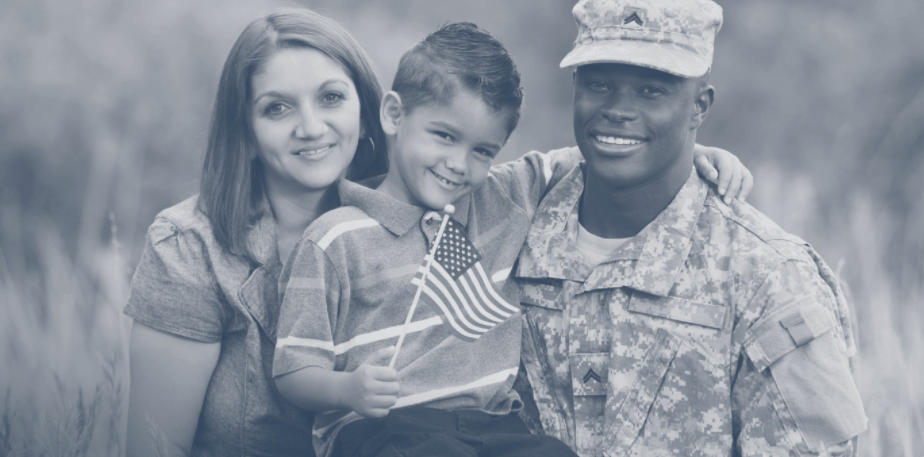
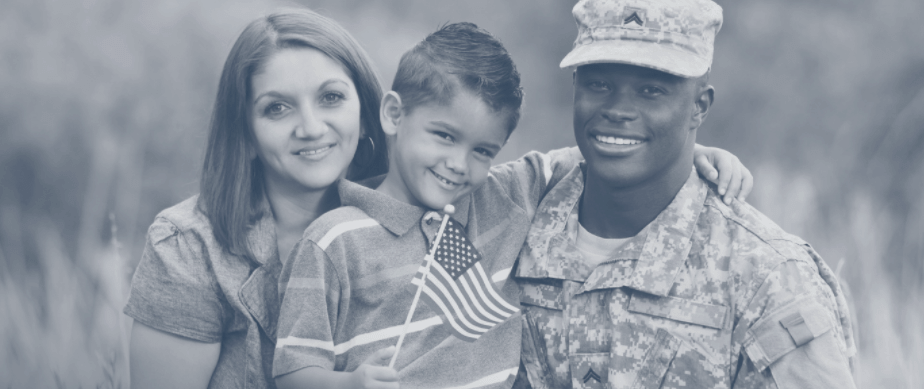
Moving some things around - Work on Responsiveness - Smaller Background Image - GA For prod.

diff --git a/src/scenes/home/families/facts/facts.js b/src/scenes/home/families/facts/facts.js
@@ -1,32 +1,32 @@
 import React, { Component } from 'react';
-import styles from './facts-styles';
+import styles from './facts.css';
 import family3 from '../../../../images/Family-3.jpg';
 
 class Facts extends Component {
   render() {
     return (
-      <div style={styles.facts} >
-        <div style={styles.factsList}>
-          <div style={styles.factsHeading} >
+      <div className={styles.facts} >
+        <div className={styles.factsList}>
+          <div className={styles.factsHeading} >
             <h5>The Facts</h5>
           </div>
           <ul>
-            <li style={styles.factItem}>
+            <li className={styles.factItem}>
               There are approximately 710,000 active duty spouses, 93% of whom are female.  An additional 500,000 spouses are married to a Reservist or National Guardsman.
             </li>
-            <li style={styles.factItem}>
+            <li className={styles.factItem}>
               84% have some college education; 25% hold an undergraduate degree; and 10% hold a postgraduate degree.
             </li>
-            <li style={styles.factItem}>
+            <li className={styles.factItem}>
               77% of spouses report that they want or need to work.  38% of military spouses are underemployed, compared to approximately 6% rate for civilian spouses.
             </li>
-            <li style={styles.factItem}>
+            <li className={styles.factItem}>
               Only 19% of military spouses have adequate full-time employment.
             </li>
           </ul>
         </div>
-        <div style={ styles.factsRight } >
-          <img style={ styles.factsImage } src={ family3 } alt="" />
+        <div className={ styles.factsRight } >
+          <img className={ styles.factsImage } src={ family3 } alt="" />
         </div>
       </div>
     );

diff --git a/src/App.js b/src/App.js
@@ -1,13 +1,25 @@
-import React, { Component, Image } from 'react';
+import React, { Component } from 'react';
 import Home from './scenes/home/home';
-import { BrowserRouter as Router, Route } from 'react-router-dom';
-
-
+import { Route, Router } from 'react-router';
+import createHistory from 'history/createBrowserHistory';
+import ReactGA from 'react-ga';
 class App extends Component {
+
+  componentDidMount() {
+    if (process.env.NODE_ENV === 'production' && process.env.GA_TRACKER_ID) {
+      ReactGA.initialize(process.env.GA_TRACKER_ID);
+      this.history.listen((location, action) => {
+        ReactGA.set({ page: location.pathname });
+        ReactGA.pageview(location.pathname);
+      });
+    }
+  }
+  history = createHistory();
+
   render() {
     return (
-      <Router>
-        <Route path="/" component={Home}/>
+      <Router history={this.history} >
+        <Route path="/" component={Home} />
       </Router>
     );
   }

diff --git a/src/scenes/home/header/header.js b/src/scenes/home/header/header.js
@@ -1,22 +1,14 @@
 import React, { Component } from 'react';
-import logo from 'images/logos/small-white-logo.png';
 import styles from './header.css';
-import { Link } from 'react-router-dom';
+import TopNav from './topNav/topNav';
+import Logo from './logo/logo';
+
 class Header extends Component {
   render() {
     return (
       <div className={ styles.header } >
-        <div className={ styles.logo } >
-          <a href="/"><img src={ logo } alt="" height="38px" /></a>
-        </div>
-        <div className={styles.nav} >
-          <Link to="about">About Us</Link>
-          <Link to="programs">Our Programs</Link>
-          <Link to="involved">Get Involved</Link>
-          <Link to="blog">Blog</Link>
-          <Link to="donate">Donate</Link>
-          <Link to="join">Join</Link>
-        </div>
+        <Logo />
+        <TopNav />
       </div>
     );
   }

diff --git a/src/scenes/home/header/header.css b/src/scenes/home/header/header.css
@@ -1,19 +1,33 @@
 
-  .header {
-    display: flex;
-    height: 38px;
-    margin: 24px 130px;
-  }
+.header {
+  display: flex;
+  height: 80px;
+  align-items: center;
+}
+.logo {
+  height:80px;
+  flex: 1 40%;
+  margin-left:80px;
+  align-items: center;
+  display:flex;
+}
+.nav {
+  display: flex;
+  justify-content: space-between;
+  flex: 1 60%;
+  margin-right:8vw;
+}
+.nav a {
+  text-decoration: none;
+  color: #F7F7F7;
+  font-size:16px;
+}
+.logo img {
+  height: 50px;
+}
+
+@media only screen and (max-device-width: 768px) {
   .logo {
-    height: 38px;
-    flex: 1 50%;
+    margin: 0;
   }
-  .nav {
-    display: flex;
-    justify-content: space-between;
-    flex: 1 50%;
-  }
-  .nav a {
-    text-decoration: none;
-    color: #F7F7F7;
-  }
+}

diff --git a/src/scenes/home/header/topNav/topNav.js b/src/scenes/home/header/topNav/topNav.js
@@ -1,0 +1,21 @@
+import React, { Component } from 'react';
+import styles from './topNav.css';
+import Nav from 'shared/components/nav/nav';
+import NavItem from 'shared/components/nav/navItem/navItem';
+
+class TopNav extends Component {
+  render() {
+    return (
+      <Nav className={styles.topNav} >
+        <NavItem to="about" text="About Us" />
+        <NavItem to="programs" text="Our Programs" />
+        <NavItem to="involved" text="Get Involved" />
+        <NavItem to="blog" text="Blog" />
+        <NavItem to="donate" text="Donate" />
+        <NavItem to="join" text="Join" />
+      </Nav>
+    );
+  }
+}
+
+export default TopNav;

diff --git a/src/shared/components/nav/navItem/navItem.js b/src/shared/components/nav/navItem/navItem.js
@@ -1,0 +1,21 @@
+import React, { Component } from 'react';
+import styles from './navItem.css';
+import { Link } from 'react-router-dom';
+import PropTypes from 'prop-types';
+
+class NavItem extends Component {
+
+  render() {
+    return (
+      <Link className={styles.navItem} to={this.props.to}>{this.props.text}
+      </Link>
+    );
+  }
+}
+
+NavItem.propTypes = {
+  to: PropTypes.string,
+  text: PropTypes.string
+}
+
+export default NavItem;

diff --git a/src/index.css b/src/index.css
@@ -6,6 +6,19 @@ html, body
 
     margin: 0;
     padding: 0;
+    font-family: "Roboto", sans-serif;
+    font-weight: normal;
+}
+
+body { font-size: 1rem; } /*16px*/
+h1 { font-size: 2.5rem; } /*40px*/
+
+@media only screen and (min-device-width: 768px) {
+html { font-size: 75%; } /*body=12px and h1=30px*/
+}
+
+@media only screen and (max-device-width: 480px) {
+html { font-size: 62.5%; } /*body=10px and h1=25px*/
 }
 
 #root {

diff --git a/src/scenes/home/families/facts/facts.css b/src/scenes/home/families/facts/facts.css
@@ -1,0 +1,26 @@
+
+.facts {
+  display: 'flex';
+  background-color: '#E2E2E2';
+  align-items: 'center';
+  padding: '96px';
+}
+.factsHeading {
+  font-size: '50px';
+  text-align: 'center';
+}
+.factsList {
+  color: '#445366';
+  font-size: '24px';
+  padding: '0 32px';
+}
+.factsRight {
+  padding: '0 32px'
+}
+.factsImage {
+  width: '30vw';
+  border-radius: '40px';
+}
+.factItem {
+  padding-bottom: '24px';
+}

diff --git a/src/scenes/home/landing/landing.js b/src/scenes/home/landing/landing.js
@@ -1,14 +1,11 @@
 import React, { Component } from 'react';
 import styles from './landing.css';
-import JumboQuote from './jumboQuote/jumboQuote';
-import Facts from './facts/facts';
 
 class Landing extends Component {
   render() {
     return (
       <div className={styles.landing}>
-        <JumboQuote />
-        <Facts />
+
       </div>
     );
   }

diff --git a/src/scenes/home/header/logo/logo.js b/src/scenes/home/header/logo/logo.js
@@ -1,0 +1,15 @@
+import React, { Component } from 'react';
+import logo from 'images/logos/small-white-logo.png';
+import styles from './logo.css';
+
+class Logo extends Component {
+  render() {
+    return (
+      <div className={styles.logo} >
+        <a href="/"><img src={ logo } alt="" /></a>
+      </div>
+    );
+  }
+}
+
+export default Logo;

diff --git a/src/scenes/home/header/topNav/topNav.css b/src/scenes/home/header/topNav/topNav.css
@@ -1,0 +1,17 @@
+.topNav {
+  display: flex;
+  justify-content: space-between;
+  flex: 1 60%;
+  margin-right:80px;
+  font-size:18px;
+}
+
+@media screen and (max-width: 979px) /* Tablet */ {
+  .topNav {
+    display: flex;
+    justify-content: space-between;
+    flex: 1 60%;
+    margin-right:40px;
+    font-size:12px;
+  }
+}

diff --git a/src/scenes/home/families/jumboQuote/jumboQuote.css b/src/scenes/home/families/jumboQuote/jumboQuote.css
@@ -1,20 +1,16 @@
 
 .quotes {
   color: #445366;
-  margin: 630px 96px 0 96px;
 }
 .quoteBody {
   text-align: center;
   color: #445366;
-  font-size: 36px;
 }
 .quoteAuthor {
   text-align: right;
   color: #445366;
-  font-size: 36px;
 }
 .quoteIcon {
-  font-size: 8px;
   vertical-align: top;
-  padding: 2px;
+
 }
